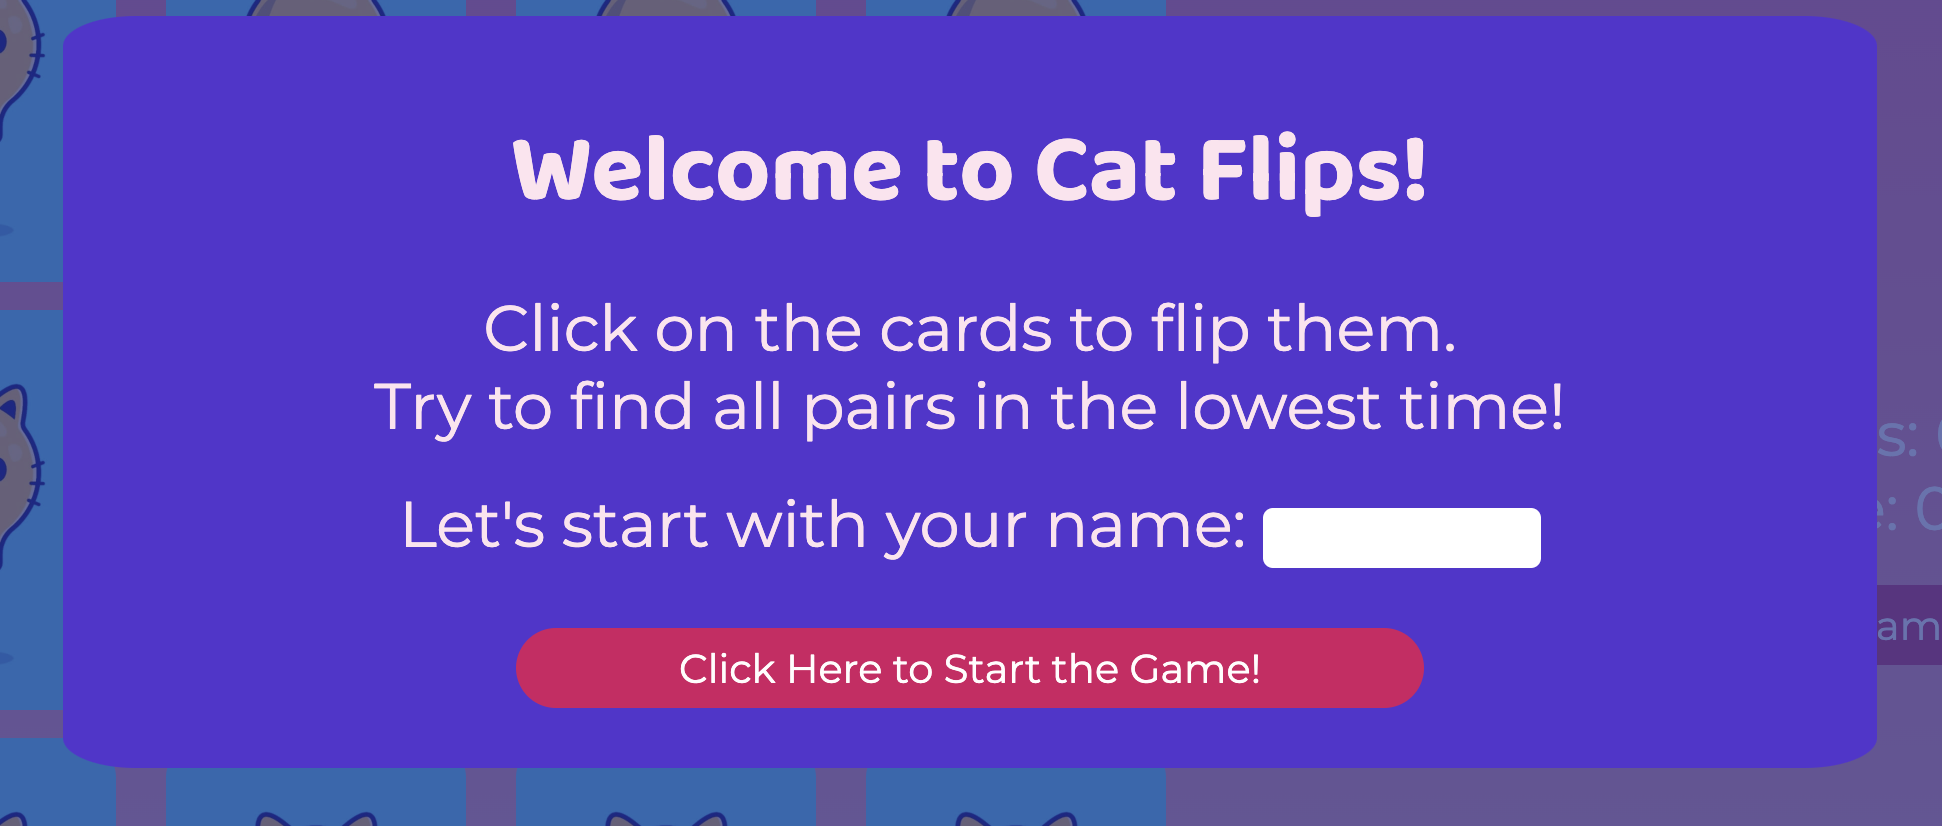
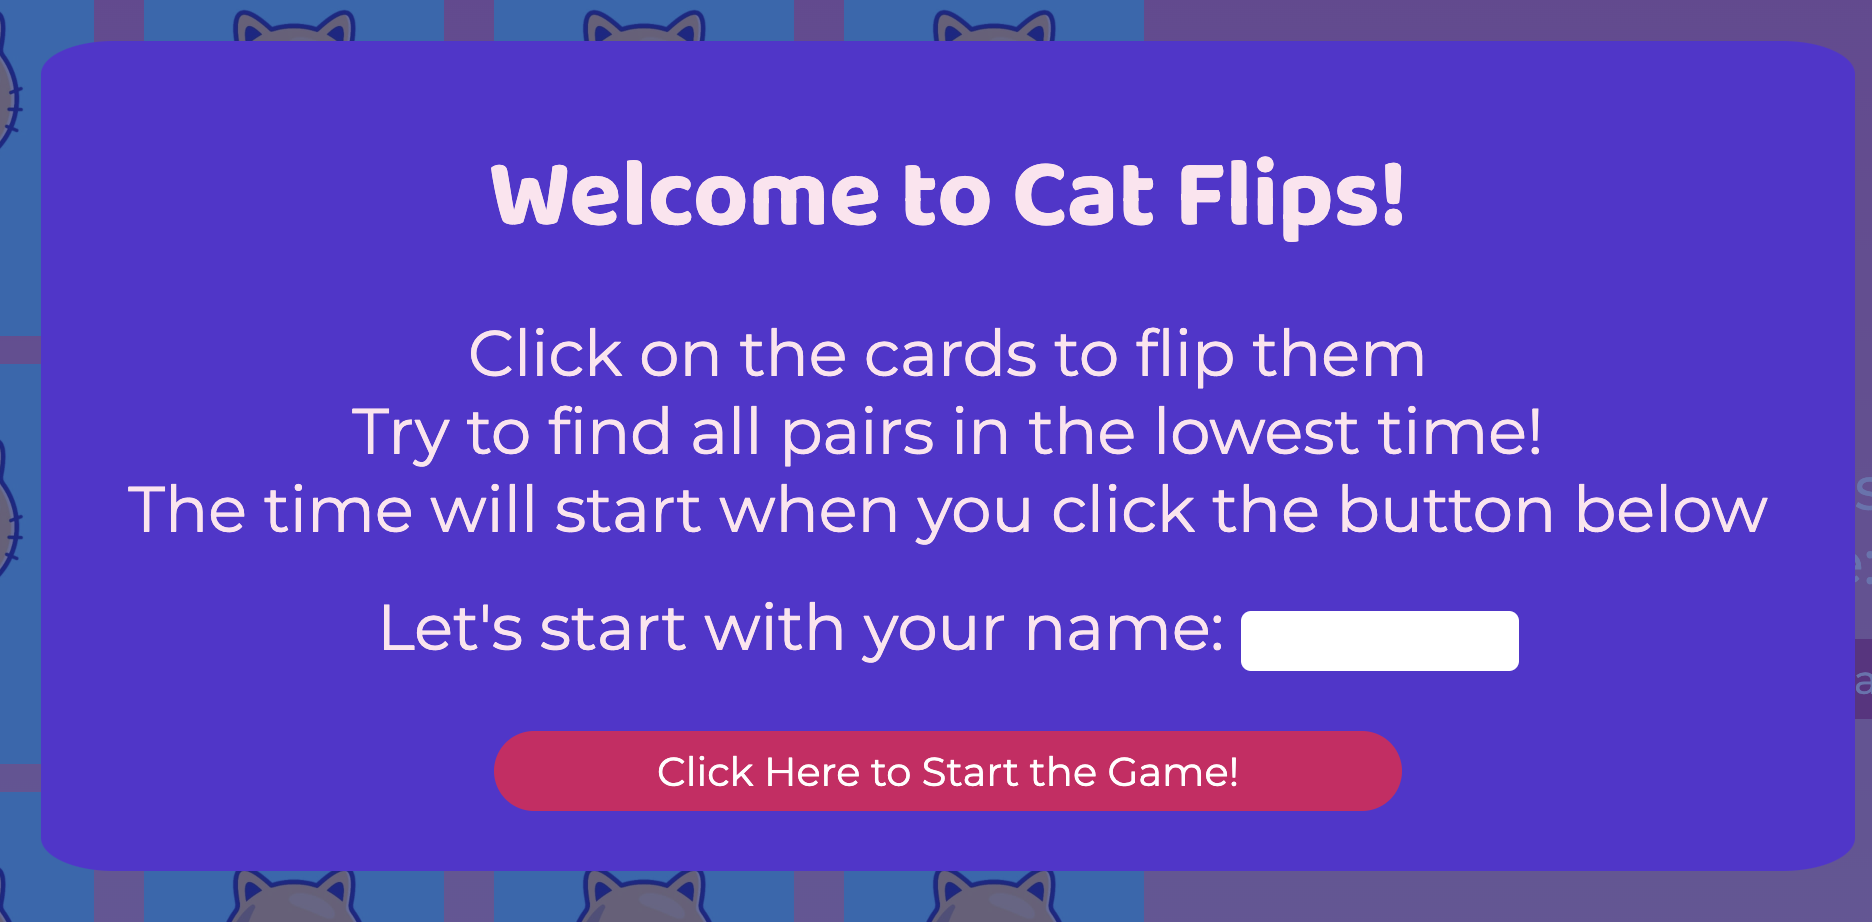
Updated Features section on readme for start modal section

diff --git a/README.md b/README.md
@@ -92,7 +92,7 @@ Fonts were chosed from GoogleFonts
 ![](assets/images/readme-images/start-modal.png)
 
 The modal at the start of the game welcomes the user to the game, and asks them to input their name. 
-The button tells the user that the game will start when it is clicked, letting them know that the time begins when they click the button.
+The modal tells the user that the time will start when they submit their name via the button on the modal.
 
 ### Cards
 
